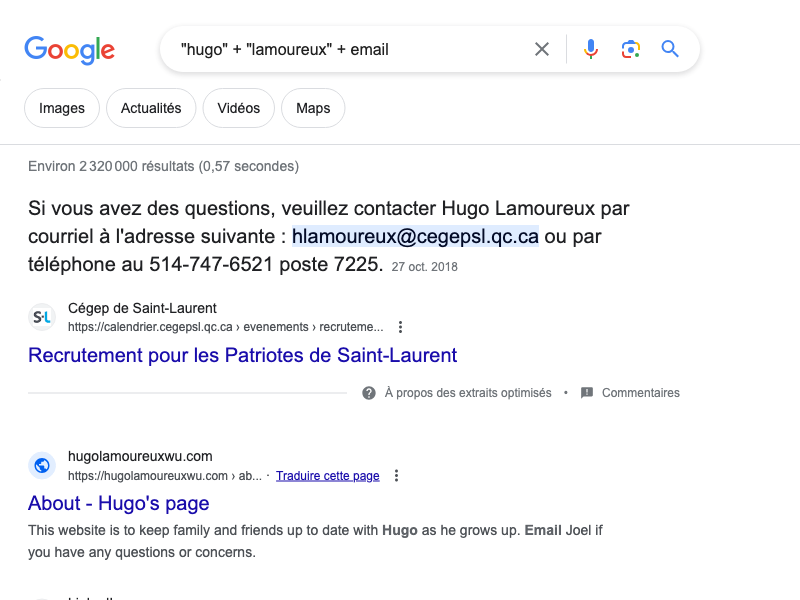
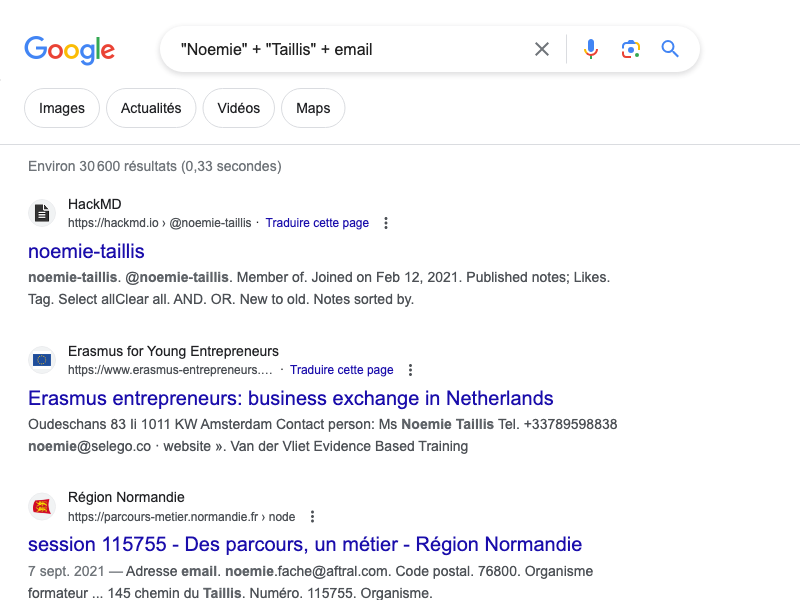
extractQuery to extrat query from a csv file

diff --git a/extractQuery.js b/extractQuery.js
@@ -1,0 +1,31 @@
+const fs = require('fs');
+const csv = require('csv-parser');
+
+function extractQuery(csvFilePath) {
+    return new Promise((resolve, reject) => {
+        const queries = [];
+
+        fs.createReadStream(csvFilePath)
+            .pipe(csv())
+            .on('data', (data) => {
+                const firstName = data['First Name'];
+                const lastName = data['Last Name'];
+
+                const query = `"${firstName}" + "${lastName}" + email`;
+                queries.push(query);
+            })
+            .on('end', () => {
+                resolve(queries);
+            })
+            .on('error', (error) => {
+                reject(error);
+            });
+    });
+}
+
+module.exports = { extractQuery };
+
+
+
+// Usage
+extractQuery('random.csv');

diff --git a/googleSearch.js b/googleSearch.js
@@ -1,5 +1,7 @@
 const puppeteer = require("puppeteer");
 const fs = require("fs");
+const { extractQuery } = require('./extractQuery'); // Import the extractQuery module
+
 async function googleSearch(query, del = 0 ) {
     try {
         const browser = await puppeteer.launch({
@@ -88,5 +90,25 @@ function delay(ms) {
     return new Promise((resolve) => setTimeout(resolve, ms));
 }
 
+
+async function main() {
+    try {
+        const queries = await extractQuery('random.csv');
+        for (const query of queries) {
+            await googleSearch(query, 2000);
+            console.log('ok!');
+        }
+    } catch (error) {
+        console.error('An error occurred:', error);
+    }
+}
+
 // Usage
-googleSearch("\"hugo\" + \"lamoureux\" + email", 2000);
+main();
+
+
+
+
+
+
+
